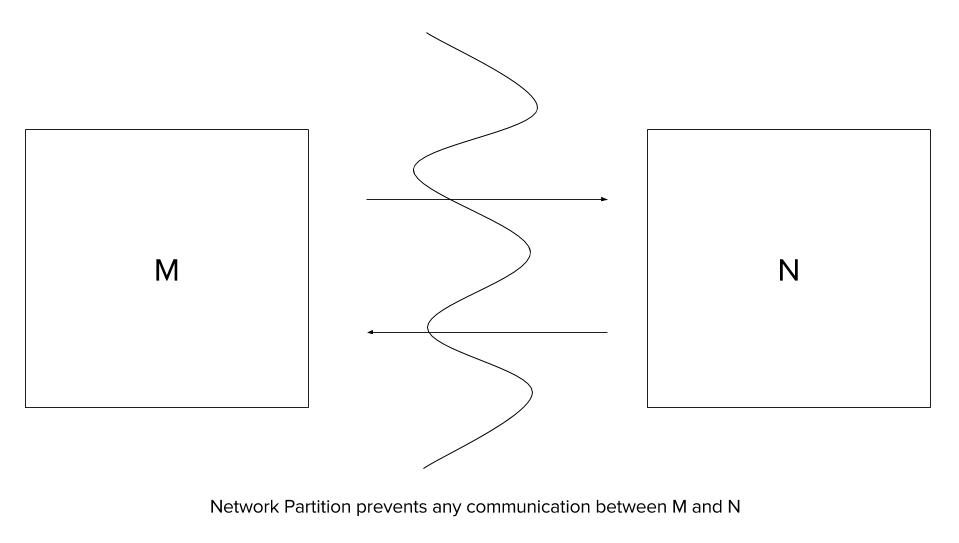
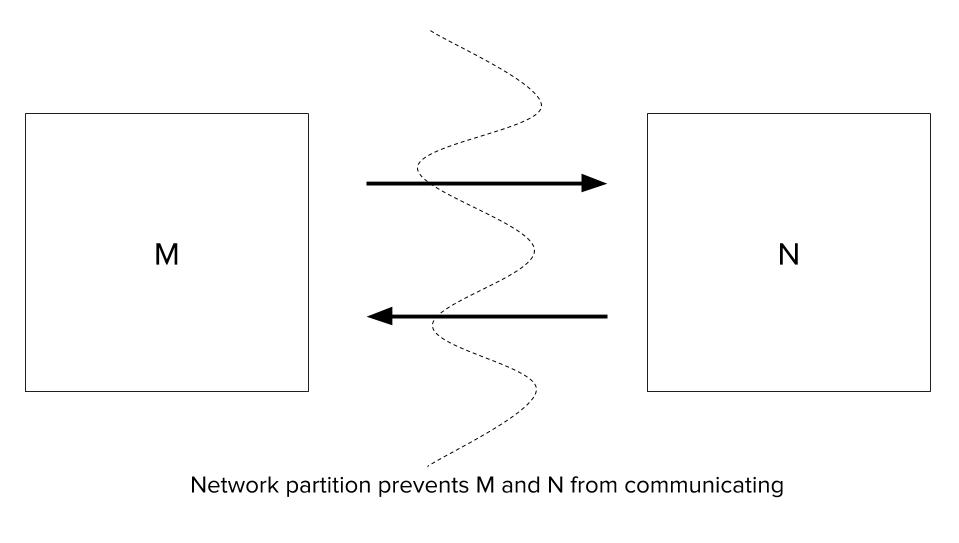
Changed figure, updated content for CAP, 2 out of 3 covered in detail

diff --git a/chapter/6/acidic-to-basic-how-the-database-ph-has-changed.md b/chapter/6/acidic-to-basic-how-the-database-ph-has-changed.md
@@ -10,7 +10,7 @@ Relational Database Management Systems are the most ubiquitous database systems 
 
 * **Atomicity** guarantees that any transaction will either complete or leave the database unchanged. If any operation of the transaction fails, the entire transaction fails. Thus, a transaction is perceived as an atomic operation on the database. This property is guaranteed even during power failures, system crashes and other erroneous situations. 
 
-* **Consistency** guarantees that any transaction will always result in a valid database state, i.e., the transaction preserves all database rules, such as unique keys, etc. 
+* **Consistency** guarantees that any transaction will always result in a valid database state, i.e., the transaction preserves all database rules, such as unique keys. 
 
 * **Isolation** guarantees that concurrent transactions do not interfere with each other. No transaction views the effects of other transactions prematurely. In other words, they execute on the database as if they were invoked serially (though a read and write can still be executed in parallel). 
 
@@ -20,17 +20,17 @@ Relational Database Management Systems are the most ubiquitous database systems 
 
 Because of the strong guarantees this model simplifies the life of the developer and has been traditionally the go to approach in application development. It is instructive to examine how these properties are enforced. 
 
-Single node databases can simply rely upon locking to ensure *ACID*ity. Each transaction marks the data it operates upon, thus enabling the database to block other concurrent transactions from modifying the same data. The lock has to be acquired both while reading and writing data. The locking mechanism enforces a strict linearizable consistency. An alternative, *multiversioning* allows a read and write operation to execute in parallel. Each transaction which reads data from the database is provided the earlier unmodified version of the data that is being modified by a write operation. This means that read operations don't have to acquire locks on the database. This enables read operations to execute without blocking write operations and write operations to execute without blocking read operations.
+Single node databases can simply rely upon locking to ensure *ACID*ity. Each transaction marks the data it operates upon, thus enabling the database to block other concurrent transactions from modifying the same data. The lock has to be acquired both while reading and writing data. The locking mechanism enforces a strict linearizable consistency, i.e., all transactions are performed in a particular sequence and invariants are always maintained by them. An alternative, *multiversioning* allows a read and write operation to execute in parallel. Each transaction which reads data from the database is provided the earlier unmodified version of the data that is being modified by a write operation. This means that read operations don't have to acquire locks on the database. This enables read operations to execute without blocking write operations and write operations to execute without blocking read operations.
 
 This model works well on a single node. But it exposes a serious limitation when too many concurrent transactions are performed. A single node database server will only be able to process so many concurrent read operations. The situation worsens when many concurrent write operations are performed. To guarantee *ACID*ity, the write operations will be performed in sequence. The last write request will have to wait for an arbitrary amount of time, a totally unacceptable situation for many real time systems. This requires the application developer to decide on a **Scaling** strategy.
 
-### Transaction Volume 
+### 1.2. Scaling transaction volume 
 
 To increase the volume of transactions against a database, two scaling strategies can be considered
 
-**Vertical Scaling** is the easiest approach to scale a relational database. The database is simply moved to a larger computer which provides more transactional capacity. Unfortunately, its far too easy to outgrow the capacity of the largest system available and it is costly to purchase a bigger system each time that happens. Since its not commodity hardware, vendor lock-in will add to further costs.
+* **Vertical Scaling** is the easiest approach to scale a relational database. The database is simply moved to a larger computer which provides more transactional capacity. Unfortunately, its far too easy to outgrow the capacity of the largest system available and it is costly to purchase a bigger system each time that happens. Since its specialized hardware, vendor lock-in will add to further costs.
 
-**Horizontal Scaling** is a more viable option and can be implemented in two ways. Data can be segregated into functional groups spread across databases. This is called *Functional Scaling*. Data within a functional group can be further split across multiple databases, enabling functional areas to be scaled independently of one another for even more transactional capacity. This is called *sharding*.
+* **Horizontal Scaling** is a more viable option and can be implemented in two ways. Data can be segregated into functional groups spread across databases. This is called *Functional Scaling*. Data within a functional group can be further split across multiple databases, enabling functional areas to be scaled independently of one another for even more transactional capacity. This is called *sharding*.
 
 Horizontal Scaling through functional partitioning enables high degree of scalability. However, the functionally separate tables employ constraints such as foreign keys. For these constraints to be enforced by the database itself, all tables have to reside on a single database server. This limits horizontal scaling. To work around this limitation the tables in a functional group have to be stored on different database servers. But now, a single database server can no longer enforce constraints between the tables. In order to ensure *ACID*ity of distributed transactions, distributed databases employ a two-phase commit (2PC) protocol. 
 
@@ -38,13 +38,22 @@ Horizontal Scaling through functional partitioning enables high degree of scalab
 
 * In the second phase, the coordinator asks each database to commit the data.
 
-2PC is a blocking protocol and is usually employed for updates which can take from a few milliseconds up to a few minutes to commit. This means that while a transaction is being processed, other transactions will be blocked. So the application that initiated the transaction will be blocked. Another option is to handle the consistency across databases at the application level. This only complicates the situation for the application developer who is likely to implement a similar strategy if *ACID*ity is to be maintained.
+2PC is a blocking protocol and updates can take from a few milliseconds up to a few minutes to commit. This means that while a transaction is being processed, other transactions will be blocked. So the application that initiated the transaction will be blocked. Another option is to handle the consistency across databases at the application level. This only complicates the situation for the application developer who is likely to implement a similar strategy if *ACID*ity is to be maintained.
 
+## 2. The Distributed Concoction
 
-## The **ACID*ic side effect
-Traditional distributed databases provide strong consistency guarantees. While processing a transaction, they block other client requests. Imagine a large scale internet based shopping service with consistency enforced across functional partitions. This means that any tra
+A distributed application is expected to have the following three desirable properties:
 
-## 3. A Distributed Concoction
+1. **Consistency** - This is the guarantee of total ordering of all operations on a data object such that each operation appears indivisible. This means that any read operation must return the most recently written value. This provides a very convenient invariant to the client application. This definition of consistency is the same as the **Atomic**ity guarantee provided by relational database transactions.
+
+2. **Availability** - Every request to a distributed system must result in a response. However, this is too vague a definition. Whether a node failed in the process of responding or it ran a really long computation to generate a response or whether the request or the response got lost due to network issues is generally impossible to determine by the client and willHence, for all practical purposes, availability can be defined as the service responding to a request in a timely fashion, the amount of delay an application can bear depends on the application domain.
+
+3. **Partition Tolerance** - Partitioning is the loss of messages between the nodes of a distributed system. During a network partition, the system can lose arbitrary number of messages between nodes. A partition tolerant system will always respond correctly unless a total network failure happens.
+
+Consistency requirement implies that every request will be treated atomically by the system even if the nodes lose messages due to network partitions.
+Availability requirement implies that every request should receive a response even if a partition causes messages to be lost arbitrarily.
+
+## 3. The CAP Theorem
 
 ![Partitioned Network](resources/partitioned-network.jpg)
 
@@ -54,34 +63,43 @@ In the network above, all messages between the node set M and N are lost due to 
 
 2. **Consistency first** - The system  does not allow any application to write to data objects as it cannot ensure **consistency** of replica states. This means that the system is perceived to be **unavailable** by the applications. 
 
-If there are no partitions, clearly both consistency and availability can be guaranteed by the system.
-
-This simple observation shows a tension between three issues concerning distributed systems -
-
-**Consistency** is the guarantee of total ordering of all operations on a data object such that each operation appears indivisible. This means that any read operation must return the most recently written value. This provides a very convenient invariant to the client application that uses the distributed data store. This definition of consistency is the same as the **Atomic**ity guarantee provided by relational database transactions.
-
-**Availability** is the guarantee that every request to a distributed system must result in a response. However, this is too vague a definition. Whether a node failed in the process of responding or it ran a really long computation to generate a response or whether the request or the response got lost due to network issues is generally impossible to determine by the client and willHence, for all practical purposes, availability can be defined as the service responding to a request in a timely fashion, the amount of delay an application can bear depends on the application domain.
-
-**Partitioning** is the loss of messages between the nodes of a distributed system. 
-
-This observation led Eric Brewer to conjecture in an invited talk at PODC 2000 - 
+If there are no partitions, clearly both consistency and availability can be guaranteed by the system. This observation led Eric Brewer to conjecture in an invited talk at PODC 2000- 
 
 <blockquote>It is impossible for a web service to provide the following three guarantees:
 Consistency
 Availability
 Partition Tolerance</blockquote>
 
-This is called the CAP theorem. It is clear that the prime culprit here is network partition. If there are no network partitions, any distributed service will be both highly available and provide strong consistency of shared data objects. Unfortunately, network partitions cannot be remedied in a distributed system. 
+This is called the CAP theorem. 
 
-## The **BASE**ic distributed state
+It is clear that the prime culprit here is network partition. If there are no network partitions, any distributed service will be both highly available and provide strong consistency of shared data objects. Unfortunately, network partitions cannot be remedied in a distributed system.
 
-When viewed through the lens of CAP theorem and its consequences on distributed application design, we realize that we cannot commit to perfect availability and strong consistency. But surely we can explore the middle ground. We can guarantee availability most of the time with sometimes inconsistent view of the data. The consistency is eventually achieved when the communication between the nodes resumes. This leads to the following properties of the current distributed applications, referred to by the acronym BASE.
+## 4. Two of Three - Exploring the CAP Theorem
 
-**Basically Available** services are those which are partially available when partitions happen. Thus, they appear to work most of the time. Partial failures result in the system being unavailable only for a section of the users.
-**Soft State** services provide no strong consistency guarantees. They are not write consistent. Since replicas may not be mutually consistent, applications have to accept stale data.
-**Eventually Consistent** services try to make application state consistent whenever possible.
+The CAP theorem dictates that the three desirable properties, consistency, availability and partition tolerance cannot be offered simultaneously. Let's study if its possible to achieve two of these three properties.
 
-## Partitions and latency
+### Consistency and Availability
+If there are no network partitions, then there is no loss of messages and all requests receive a response within the stipulated time. It is clearly possible to achieve both consistency and availability. Distributed systems over intranet are an example of such systems.
+
+### Consistency and Partition Tolerance
+Without availability, both of these properties can be achieved easily. A centralized system can provide these guarantees. The state of the application is maintained on a single designated node. All updates from the client are forwarded by the nodes to this designated node. It updates the state and sends the response. When a failure happens, then the system does not respond and is perceived as unavailable by the client. Distributed locking algorithms in databases also provide these guarantees.
+
+### Availability and Partition Tolerance
+Without atomic consistency, it is very easy to achieve availability even in the face of partitions. Even if nodes fail to communicate with each other, they can individually handle query and update requests issued by the client. The same data object will have different states on different nodes as the nodes progress independently. This weak consistency model is exhibited by web caches.
+
+Its clear that two of these three properties are easy to achieve in any distributed system. Since large scale distributed systems have to take partitions into account, will they have to sacrifice availability for consistency or consistency for availability? Clearly giving up either consistency or availability is too big a sacrifice.
+
+## 5. The **BASE**ic distributed state
+
+When viewed through the lens of CAP theorem and its consequences on distributed application design, we realize that we cannot commit to perfect availability and strong consistency. But surely we can explore the middle ground. We can guarantee availability most of the time with occasional inconsistent view of the data. The consistency is eventually achieved when the communication between the nodes resumes. This leads to the following properties of the current distributed applications, referred to by the acronym BASE.
+
+* **Basically Available** services are those which are partially available when partitions happen. Thus, they appear to work most of the time. Partial failures result in the system being unavailable only for a section of the users.
+
+* **Soft State** services provide no strong consistency guarantees. They are not write consistent. Since replicas may not be mutually consistent, applications have to accept stale data.
+
+* **Eventually Consistent** services try to make application state consistent whenever possible.
+
+## 6. Partitions and latency
 Any large scale distributed system has to deal with latency issue. In fact, network partitions and latency are fundamentally related. Once a request is made and no response is received within some duration, the sender node has to assume that a partition has happened. The sender node can take one of the following steps:
 
 1) Cancel the operation as a whole. In doing so, the system is choosing consistency over availability. 
@@ -90,32 +108,32 @@ Any large scale distributed system has to deal with latency issue. In fact, netw
 
 Essentially, a partition is an upper bound on the time spent waiting for a response. Whenever this upper bound is exceeded, the system chooses C over A or A over C. Also, the partition may be perceived only by two nodes of a system as opposed to all of them. This means that partitions are a local occurrence.
 
-## Handling Partitions
+## 7. Handling Partitions
 Once a partition has happened, it has to be handled explicitly. The designer has to decide which operations will be functional during partitions. The partitioned nodes will continue their attempts at communication. When the nodes are able to establish communication, the system has to take steps to recover from the partitions. 
 
-### Partition mode functionality
+### 7.1. Partition mode functionality
 When at least one side of the system has entered into partition mode, the system has to decide which functionality to support. Deciding this depends on the invariants that the system must maintain. Depending on the nature of problem, the designer may choose to compromise on certain invariants by allowing partitioned system to provide functionality which might violate them. This means the designer is choosing availability over consistency. Certain invariants may have to be maintained and operations that will violate them will either have to be modified or prohibited. This means the designer is choosing consistency over availability. 
 Deciding which operations to prohibit, modify or delay also depends on other factors such as the node. If the data is stored on the same node, then operations on that data can typically proceed on that node but not on other node.
 In any event, the bottomline is that if the designer wishes for the system to be available, certain operations have to be allowed. The node has to maintain a history of these operations so that it can be merged with the rest of the system when it is able to reconnect. 
 Since the operations can happen simultaneously on multiple disconnected nodes, all sides will maintain this history. One way to maintain this information is through version vectors.
 Another interesting problem is to communicate the progress of these operations to the user. Until the system gets out of partition mode, the operations cannot be committed completely. Till then, the user interface has to faithfully represent their incomplete or in-progress status to the user.
 
-### Partition Recovery
+### 7.2. Partition Recovery
 When the partitioned nodes are able to communicate, they have to exchange information to maintain consistency. Both sides continued in their independent direction but now the delayed operations on either side have to be performed and violated invariants have to be fixed. Given the state and history of both sides, the system has to accomplish the following tasks.
 
-#### Consistency
+#### 7.2.1. Consistency
 During recovery, the system has to reconcile the inconsistency in state of both nodes. This is relatively straightforward to accomplish. One approach is to start from the state at the time of partition and apply operations of both sides in an appropriate manner, ensuring that the invariants are maintained. Depending on operations allowed during the partition phase, this process may or may not be possible. The general problem of conflict resolution is not solvable but a restricted set of operations may ensure that the system can always always merge conflicts. For example, Google Docs limits operations to style and text editing. But source-code control systems such as Concurrent Versioning System (CVS) may encounter conflict which require manual resolution. Research has been done on techniques for automatic state convergence. Using commutative operations allows the system to sort the operations in a consistent global order and execute them. Though all operations can't be commutative, for example - addition with bounds checking is not commutative. Mark Shapiro and his colleagues at INRIA have developed *commutative replicated data types (CRDTs)* that provably converge as operations are performed. By implementing state through CRDTs, we can ensure Availability and automatic state convergence after partitions.
 
-#### Compensation
+#### 7.2.2. Compensation
 During partition, its possible for both sides to perform a series of actions which are externalized, i.e. their effects are visible outside the system. To compensate for these actions, the partitioned nodes have to maintain a history.
 For example, consider a system in which both sides have executed the same order during a partition. During the recovery phase, the system has to detect this and distinguish it from two intentional orders. Once detected, the duplicate order has to be rolled back. If the order has been committed successfully then the problem has been externalized. The user will see twice the amount deducted from his account for a single purchase. Now, the system has to credit the appropriate amount to the user's account and possibly send an email explaining the entire debacle. All this depends on the system maintaining the history during partition. If the history is not present, then duplicate orders cannot be detected and the user will have to catch the mistake and ask for compensation.
 It would have been great if the duplicate order was not issued by the system in the first place. But the requirement to maintain system availability trumps consistency. Mistakes in such cases cannot always be corrected internally. But by admitting them and compensating for them, the system arguably exhibits equivalent behavior.
 
-### What's the right pH for my distributed solution?
+### 8. What's the right pH for my distributed solution?
 
 Whether an application chooses to be an *ACID*ic or *BASE*ic service depends on the domain. An application developer has to consider the consistency-availability tradeoff on a case by case basis. *ACID*ic databases provide a very simple and strong consistency model making application development easy for domains where data inconsistency cannot be tolerated. *BASE*ic systems provide a very loose consistency model, placing more burden on the application developer to understand the invariants and manage them carefully during partitions by appropriately limiting or modifying the operations.
 
-## References
+## 9. References
 
 https://neo4j.com/blog/acid-vs-base-consistency-models-explained/
 https://en.wikipedia.org/wiki/Eventual_consistency/
